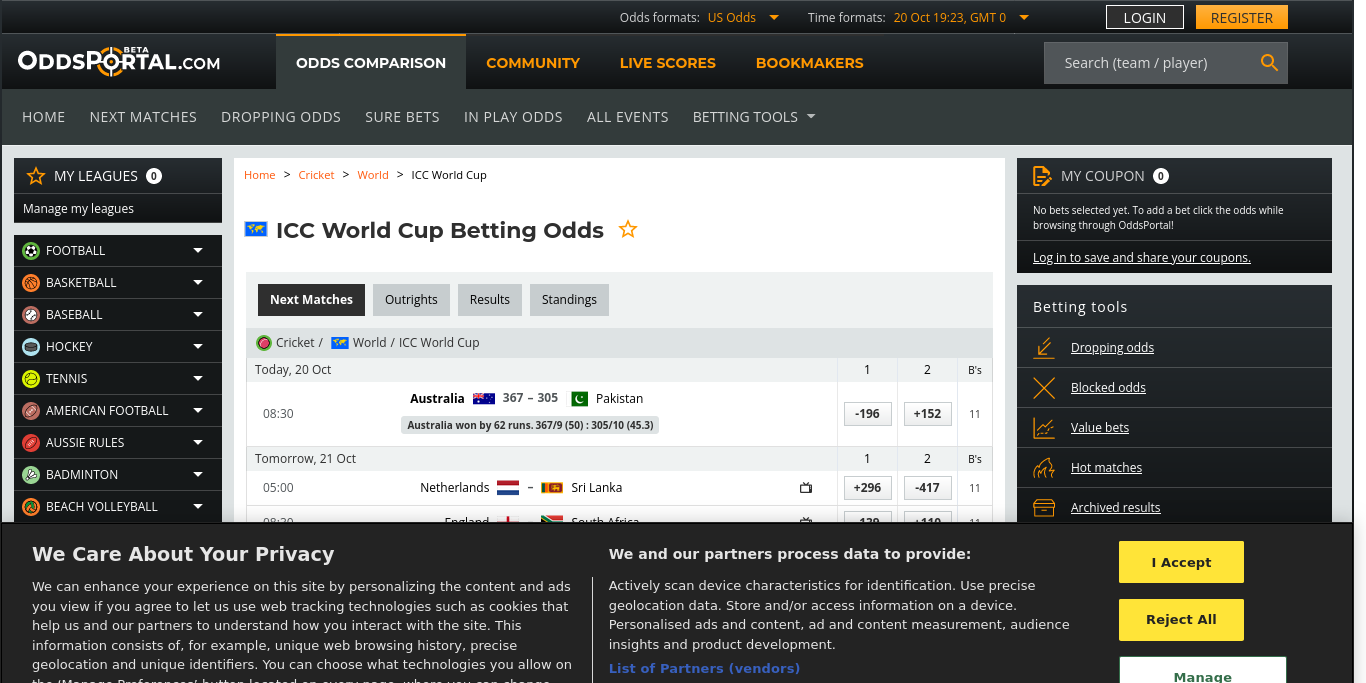
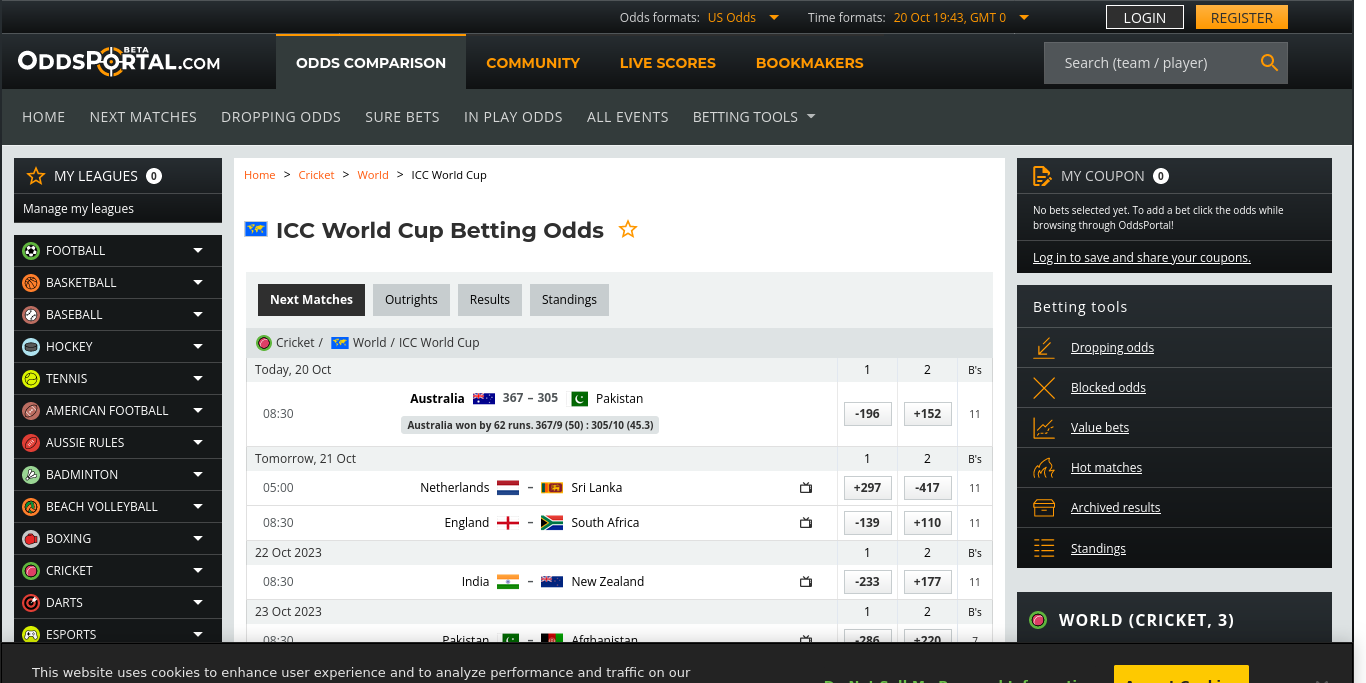
Update Data (Cron) Fri Oct 20 19:44:03 UTC 2023

Changed region(s): [[0.0, 0.7379, 1.0, 1.0]]

diff --git a/src/nonview/data/TEAM1_ID_TO_TEAM2_ID_TO_ODDS_PAIR.js b/src/nonview/data/TEAM1_ID_TO_TEAM2_ID_TO_ODDS_PAIR.js
@@ -1,6 +1,6 @@
 // Auto Generated by UpdateTeam1IDToTeam2IDToOddsPair
 // https://www.oddsportal.com/cricket/world/icc-world-cup/
-// 2023-10-21 00:53:54 +0000
+// 2023-10-21 01:13:54 +0000
 
 import { TEAM } from "../core/Team.js";
 
@@ -10,7 +10,7 @@ export const TEAM1_ID_TO_TEAM2_ID_TO_ODDS_PAIR = {
     [TEAM.NLD.id]: [1.06, 8.82],
   },
   [TEAM.LKA.id]: {
-    [TEAM.NLD.id]: [1.24, 3.96],
+    [TEAM.NLD.id]: [1.24, 3.97],
   },
   [TEAM.ENG.id]: {
     [TEAM.ZAF.id]: [1.72, 2.10],
@@ -20,7 +20,7 @@ export const TEAM1_ID_TO_TEAM2_ID_TO_ODDS_PAIR = {
     [TEAM.NZL.id]: [1.43, 2.77],
   },
   [TEAM.PAK.id]: {
-    [TEAM.AFG.id]: [1.35, 3.21],
+    [TEAM.AFG.id]: [1.35, 3.20],
   },
   [TEAM.ZAF.id]: {
     [TEAM.BGD.id]: [1.31, 3.46],

diff --git a/src/nonview/constants/VERSION.js b/src/nonview/constants/VERSION.js
@@ -1,4 +1,4 @@
 // Auto-generated by javascript_version.py
-export const VERSION_UT = 1697829843;
+export const VERSION_UT = 1697831043;
 export const VERSION_DATETIME = new Date(VERSION_UT * 1_000);
 export const LAST_COMMIT_MESSAGE = "Updated 📊Data";

diff --git a/src/nonview/data/TEAM_ID_TO_P_WINNER.js b/src/nonview/data/TEAM_ID_TO_P_WINNER.js
@@ -1,6 +1,6 @@
 // Auto Generated by UpdateTeamIDToPWinner
 // https://www.oddsportal.com/cricket/world/icc-world-cup/outrights/
-// 2023-10-21 00:54:02 +0000
+// 2023-10-21 01:14:03 +0000
 
 export const TEAM_ID_TO_P_WINNER = {
   IND: 0.418352, // 42%

diff --git a/src/nonview/data/ODI_ID_TO_WINNER.js b/src/nonview/data/ODI_ID_TO_WINNER.js
@@ -1,6 +1,6 @@
 // Auto Generated by UpdateODIIDToWinner
 // https://www.cricbuzz.com/cricket-series/6732/icc-cricket-world-cup-2023/matches
-// 2023-10-21 00:53:34 +0000
+// 2023-10-21 01:13:34 +0000
 
 import { TEAM } from "../core/Team.js";
 

diff --git a/src/nonview/data/POINTS_TABLE.js b/src/nonview/data/POINTS_TABLE.js
@@ -1,6 +1,6 @@
 // Auto Generated by UpdatePointsTable
 // https://www.cricketworldcup.com/standings
-// 2023-10-21 00:53:44 +0000
+// 2023-10-21 01:13:44 +0000
 
 import { TEAM } from "../core/Team.js";
 
